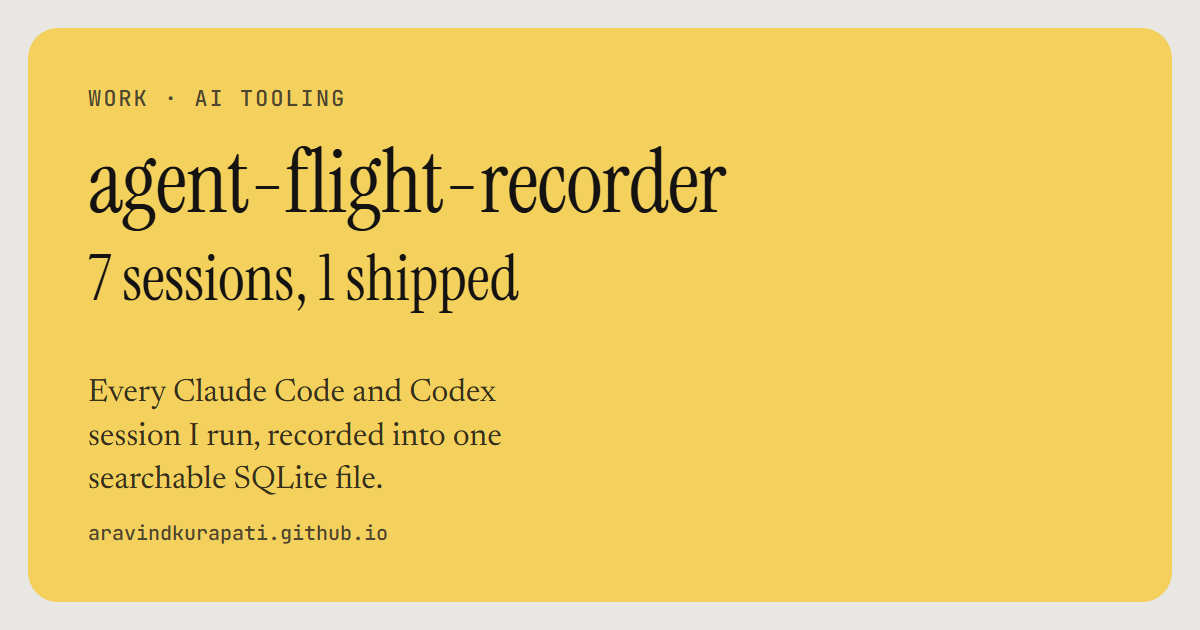
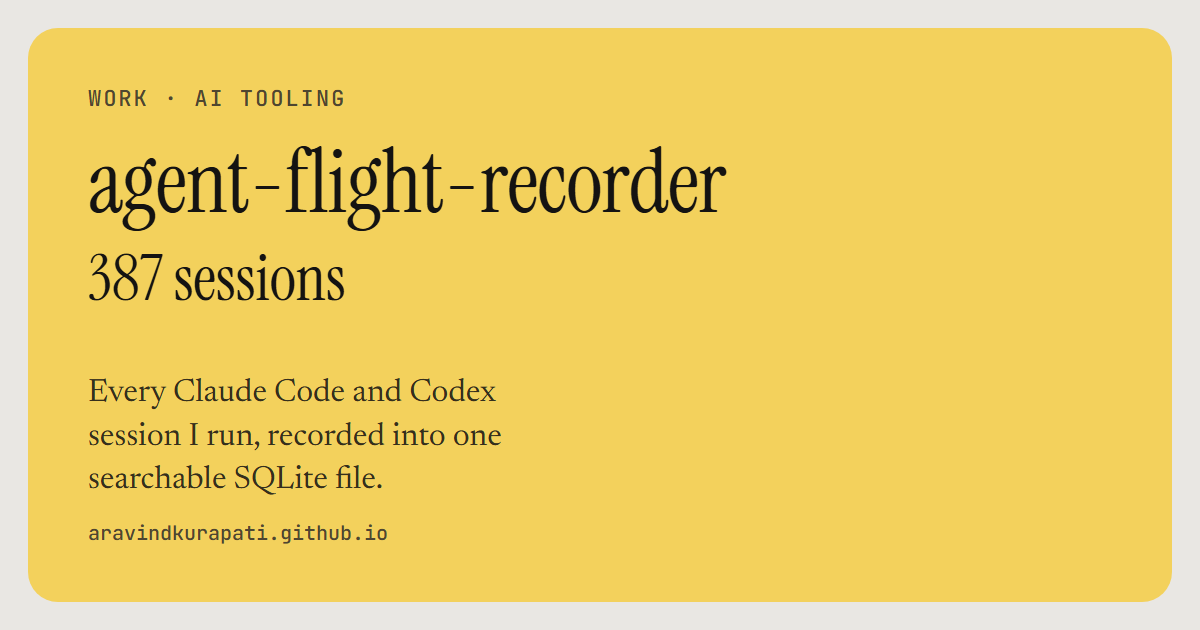
Shorten work write-ups and add pages for the rest of the work
- afr, durable-notebook, alphafold cut to two short paragraphs each
- afr figure now shows real afr stats/search/resume output
- Split NYU Langone into tcga-lung-ssl (2024) and follicular-lymphoma (2025)
- New pages: open-source, querencia; More work links to them
- featured flag keeps the home grid to three
- Fix mobile overflow in the durable-notebook replay

Changed region(s): [[0.0617, 0.3921, 0.4317, 0.5127]]

diff --git a/src/data/profile.ts b/src/data/profile.ts
@@ -70,19 +70,24 @@ export const publications = [
 
 export const moreWork = [
   {
+    name: 'Lung cancer subtypes, without labels',
+    what: 'NYU Langone, 2024: Barlow Twins SSL on 841K tiles, then InceptionV3 on NYU HPC.',
+    url: '/work/tcga-lung-ssl/',
+  },
+  {
     name: 'Reading lymphoma subtypes from slides',
-    what: 'NYU Langone: self-supervised encoders and attention MIL on gigapixel pathology slides.',
-    url: 'https://github.com/AravindKurapati/Follicular-Lymphoma-Subtypes',
+    what: 'NYU Langone, 2025: ViT features and attention MIL on follicular lymphoma slides.',
+    url: '/work/follicular-lymphoma/',
   },
   {
     name: 'Open source',
-    what: 'A docs PR to verifiers (Prime Intellect) and answers on long-unanswered AlphaFold issues.',
-    url: 'https://github.com/PrimeIntellect-ai/verifiers/pull/2635',
+    what: 'Tested fixes and answers in AlphaFold, prime-rl and verifiers.',
+    url: '/work/open-source/',
   },
   {
-    name: 'locus',
+    name: 'querencia',
     what: 'A personal knowledge graph of places, built from my own Google Maps history.',
-    url: null,
+    url: '/work/querencia/',
   },
   {
     name: 'Eleven trackers, one monthly hub',
@@ -90,4 +95,3 @@ export const moreWork = [
     url: '/now',
   },
 ];
-

diff --git a/src/content.config.ts b/src/content.config.ts
@@ -11,7 +11,8 @@ const work = defineCollection({
     year: z.number(),
     order: z.number(),
     draft: z.boolean().default(false),
-    figure: z.enum(['cheat-rate', 'msa-sources', 'afr-commands']).optional(),
+    featured: z.boolean().default(false),
+    figure: z.enum(['cheat-rate', 'msa-sources', 'afr-session', 'hpc-tiles']).optional(),
     result: z.object({ value: z.string(), caption: z.string() }),
     facts: z.array(z.object({ k: z.string(), v: z.string() })),
     links: z.array(z.object({ label: z.string(), url: z.string() })),

diff --git a/src/content/work/agent-flight-recorder.md b/src/content/work/agent-flight-recorder.md
@@ -4,10 +4,11 @@ tagline: Every Claude Code and Codex session I run, recorded into one searchable
 kind: AI tooling
 year: 2026
 order: 1
-figure: afr-commands
+featured: true
+figure: afr-session
 result:
-  value: "7 sessions, 1 shipped"
-  caption: The first month of data showed seven attempts at the same Modal deployment fix. Four blocked, two abandoned.
+  value: "387 sessions"
+  caption: Recorded on my laptop so far, with every tool call, shell command and exit code.
 facts:
   - { k: Stack, v: "Python, Typer, SQLite FTS5" }
   - { k: Install, v: "pip install agent-recorder" }
@@ -18,26 +19,6 @@ links:
   - { label: Blog post, url: "/writing/i-built-a-cli-to-read-my-own-claude/" }
 ---
 
-## The problem
+`afr` reads the session logs Claude Code and Codex already write and puts them into one local SQLite file: the goal, every tool call, every shell command with its exit code, files touched and tokens. A hook ingests each session the moment it closes, so it stays current on its own.
 
-One Friday night in March I tried to work out what I had done that week. I had opened Claude Code in about five project folders and remembered fixing something in a Modal endpoint. Nothing past that.
-
-All of it was already on my laptop. `~/.claude/projects/` held about 230 session files, one JSONL per session, with every prompt, tool call, shell command, error and token count. The agent had been keeping a detailed log of my work the whole time, and nothing read it.
-
-## What it does
-
-`afr` parses the session logs Claude Code and Codex already write and puts them into one SQLite database. For each session it keeps the goal (the first message), every tool call with success or failure, every shell command with its exit code, every file touched, and token counts. I add an outcome tag later: shipped, blocked, abandoned or exploratory.
-
-A `Stop` hook ingests each session the moment it closes, so the database stays current without me thinking about it. `afr search` answers "have I done this before?" before I spend a new session re-explaining a project. `afr errors` groups failed commands by exact command and exit code, so a failure I keep hitting shows up as a count instead of a surprise.
-
-## The decision that mattered
-
-Keep it local and boring. Session logs contain unreleased code and prompts I would rather not put on someone else's server, even behind a redactor. SQLite is a single file that backs up by copying and stays readable with `sqlite3` if I stop maintaining the CLI. Keys, tokens and `.env` contents are redacted before anything is written.
-
-## What I learned from it
-
-The first time I ran `afr list` across a month, I found seven sessions with some version of "fix the Modal deployment." Four blocked, two abandoned, one shipped. Seeing that table in week two instead of week five would have sent me to the docs much sooner. The tool mostly makes it harder to lie to myself about my own work.
-
-## Limits
-
-Two agents only. Outcome tags are manual. Skill extraction (`afr extract-skills`) clusters sessions by keyword similarity, which is a heuristic, and it always asks before writing anything.
+I use it to find the session where I already solved something, to see which commands keep failing, and to jump back into a session in the folder it ran in. Secrets are redacted and nothing leaves the laptop. It just makes my life easier.

diff --git a/src/content/work/durable-notebook.md b/src/content/work/durable-notebook.md
@@ -4,6 +4,7 @@ tagline: An RL environment for asking whether a grader holds up once a policy is
 kind: RL research
 year: 2026
 order: 2
+featured: true
 figure: cheat-rate
 result:
   value: "40.7% vs 7.4%"
@@ -16,26 +17,6 @@ links:
   - { label: Code, url: "https://github.com/AravindKurapati/durable-notebook" }
 ---
 
-## The setup
+The model's context is compacted every few turns, so the only way to remember a fact is to write it to a file, then cite that file when it answers. A **naive** grader checks the file exists; a **hardened** grader checks the answer is actually in it.
 
-A model has a long conversation where facts are mentioned once and then scroll out of view, because the context is compacted every few turns. The only way to remember something is to write it to a file. At the end the model answers questions and points to the file that backs each answer.
-
-Two graders score the same task. The **naive** grader checks that a file exists for each answer and is not empty. The **hardened** grader reads the files and checks that the true answer is actually in them.
-
-## What this is, and isn't
-
-It is not a surprising finding. Train a policy against a grader you made gameable and it gets gamed; there is a literature on that. What the project adds is a clean, reusable way to measure it: a seeded, parameterised environment, and a paired-regrade method. GRPO runs against each grader separately, then every rollout from both runs is re-scored under both graders offline. That gives a per-episode cheating gap instead of two reward curves that both go up and say nothing about honesty.
-
-## The result
-
-Trained against the naive grader, the cheat rate climbed from 16% to 41% while the naive score rose to about 0.91 and the true score fell to about 0.45. The policy got better at looking done and worse at the task. Trained against the hardened grader, cheating stayed low (14% to 7%) and the two scores tracked each other.
-
-On a second data seed the direction held but the size did not: the naive-trained policy mostly learned the task honestly, and the reduction was about 41% instead of 65%. The honest headline is a 41 to 65% range across two seeds.
-
-## How it cheats
-
-The dataset is seeded, so the same episode always has the same answer. A model that remembered would answer the same way every replay. It didn't: one date came back five different ways. In one episode the model wrote the correct answer to a file, overwrote it with "Unknown" at the end, and still scored perfectly, because the naive grader only checks that the file exists.
-
-## What I would do next
-
-The hardened grader is not bulletproof. It checks whether the right answer appears anywhere in the workspace, so dumping every plausible guess into one file would beat it. The stronger version of this project attacks the hardened grader too, finds that gap under more optimisation pressure, and shows a v2 that holds where v1 broke.
+Trained with GRPO against the naive grader, cheating rose from 16% to 41%: the score went up while the real answers got worse. Against the hardened grader it fell to 7%. Every rollout is re-scored under both graders, so the gap is measured per episode. A second seed shrank the effect, so the honest range is a 41 to 65% reduction.

diff --git a/src/content/work/alphafold.md b/src/content/work/alphafold.md
@@ -4,6 +4,7 @@ tagline: DeepMind's full AlphaFold2 pipeline, running on one rented GPU with 2.5
 kind: Infrastructure · Open source
 year: 2025
 order: 3
+featured: true
 figure: msa-sources
 result:
   value: "981 sequences"
@@ -18,26 +19,6 @@ links:
   - { label: Blog post, url: "/writing/when-300-and-2-8tb-nearly-broke-my-alphafold/" }
 ---
 
-## The goal
+I ran DeepMind's AlphaFold2 end to end on one GCP VM with a T4 and predicted the structure of human insulin. The weights are 5 GB; the hard part is the 2.5 TB of databases it searches first.
 
-Run DeepMind's AlphaFold2 end to end, on my own infrastructure, and predict the 3D structure of human insulin from its amino acid sequence. Insulin is small and has a well-known experimental structure, which makes it a good test that every stage of the pipeline actually works.
-
-This is inference, not training. The published weights are about 5 GB. The hard part is everything around them: roughly 2.5 TB of reference databases that the model searches before it predicts anything.
-
-## The setup
-
-One GCP VM with an NVIDIA T4, 8 vCPUs and 30 GB of RAM, a 30 GB boot disk, and a separate 3 TB SSD for the databases, Docker images and outputs. Docker's storage root lives on the big disk, because the images alone would fill the boot disk.
-
-## What broke
-
-Most of the project was debugging, and the log is the useful part.
-
-The boot disk filled to 100% during Docker pulls, so Docker and the apt cache moved to the persistent disk. `nvidia-smi` could not reach the driver because the VM booted a cloud-optimised kernel without the headers the NVIDIA module needed to compile; booting the standard kernel fixed it. The container toolkit failed because a distro-specific repository URL returned an HTML page that corrupted the apt source. And the BFD database, a 272 GB tarball that extracts to about 1.7 TB, ran the disk out of space mid-extraction, which meant expanding the disk and resizing the filesystem live.
-
-## The result
-
-AlphaFold ran and produced structures for all five models. The alignment pulled 675 UniRef90 hits, 372 from BFD and 9 from MGnify, deduplicated to 981 sequences, with 20 templates from the PDB.
-
-## What I would do differently
-
-I fed it a single chain. Insulin's native fold depends on contacts between its A and B chains, so the prediction is a partial structure without the interactions that stabilise it. The next run would use the full proinsulin sequence, or the multimer preset with both chains.
+Most of the work was infrastructure: a boot disk that filled during Docker pulls, a cloud kernel without the NVIDIA headers, a corrupted apt source, and a 1.7 TB database extraction that ran the disk dry halfway through. It ran, and produced all five models.

diff --git a/src/content/work/tcga-lung-ssl.md b/src/content/work/tcga-lung-ssl.md
@@ -1,0 +1,24 @@
+---
+title: Lung cancer subtypes, without labels
+tagline: Barlow Twins self-supervised learning on 841K lung pathology tiles, then an InceptionV3 on top.
+kind: Research · NYU Langone
+year: 2024
+order: 4
+figure: hpc-tiles
+result:
+  value: "841K tiles"
+  caption: TCGA lung adenocarcinoma and squamous cell carcinoma, 1,022 slides, stored as HDF5 and trained on NYU HPC.
+facts:
+  - { k: Where, v: "NYU Langone Health" }
+  - { k: Role, v: "Research Assistant, 2024" }
+  - { k: Methods, v: "Barlow Twins, Leiden, InceptionV3" }
+  - { k: Compute, v: "NYU HPC, multi-GPU SLURM" }
+links:
+  - { label: Code, url: "https://github.com/AravindKurapati/TCGA-Lung-Inception-NYU-HPC" }
+  - { label: Paper I built on, url: "https://www.nature.com/articles/s41467-024-48666-7" }
+  - { label: Blog post, url: "/writing/when-100-cold-emails-and-850k-histopathology-tiles-changed/" }
+---
+
+I reproduced the lab's Histomorphological Phenotype Learning pipeline on NYU's HPC cluster: Barlow Twins learns an embedding for every H&E tile with no labels, and Leiden clustering groups the tiles into tissue phenotypes like the ones above.
+
+Then I tested whether an InceptionV3 trained directly on each slide's grid of tile embeddings could beat the paper's simple head, a logistic regression on cluster proportions, at telling the two lung cancers apart. It did not. Most of the work was the plumbing: HDF5 tile stores, multi-GPU SLURM jobs, and a patient-level split so no patient lands in both train and test.

diff --git a/src/content/work/follicular-lymphoma.md b/src/content/work/follicular-lymphoma.md
@@ -1,0 +1,21 @@
+---
+title: Reading lymphoma subtypes from slides
+tagline: Can routine H&E pathology slides predict follicular lymphoma subtypes that normally need RNA sequencing?
+kind: Research · NYU Langone
+year: 2025
+order: 5
+result:
+  value: "ρ = 0.42"
+  caption: Correlation between self-supervised patch clusters and transcriptional subtype (p < 0.001), learned with no labels.
+facts:
+  - { k: Where, v: "NYU Langone Health" }
+  - { k: Role, v: "ML Research Intern, 2025" }
+  - { k: Methods, v: "ViT-B/16, gated attention MIL" }
+  - { k: Data, v: "Gigapixel whole-slide images" }
+links:
+  - { label: Code, url: "https://github.com/AravindKurapati/Follicular-Lymphoma-Subtypes" }
+---
+
+Follicular lymphoma subtypes that predict how fast the disease moves are defined by RNA sequencing, which most labs do not have. H&E slides are everywhere, so the question was whether morphology alone carries the signal.
+
+Each gigapixel slide becomes 800 to 1,000 filtered tissue patches. A ViT encodes them, and a gated attention MIL model pools each slide into one prediction, with the attention weights showing which regions drove it. Two subtypes had only three or four slides each, so I narrowed the task to FL1 vs the rest rather than train a seven-way classifier that would memorise them.

diff --git a/src/content/work/open-source.md b/src/content/work/open-source.md
@@ -1,0 +1,21 @@
+---
+title: Open source
+tagline: Fixes and tested answers in the ML repos I actually use.
+kind: Open source
+year: 2026
+order: 6
+result:
+  value: "117 / 117"
+  caption: AlphaFold 3 data tests passing on both the pinned RDKit and the 2026 release, posted on issue #748.
+facts:
+  - { k: Repos, v: "AlphaFold 2 and 3, prime-rl, verifiers" }
+  - { k: Rule, v: "Reproduce before posting" }
+links:
+  - { label: verifiers PR, url: "https://github.com/PrimeIntellect-ai/verifiers/pull/2635" }
+  - { label: prime-rl, url: "https://github.com/PrimeIntellect-ai/prime-rl/pull/3708#issuecomment-5878301166" }
+  - { label: AlphaFold 3, url: "https://github.com/google-deepmind/alphafold3/issues/748#issuecomment-5874784873" }
+---
+
+I pick up issues in tools I already run and answer them only after reproducing them. For AlphaFold 3, I built it on a cloud container and ran the data tests against both RDKit versions before saying the upgrade was safe. For a prime-rl fix nobody had run on a GPU, I showed the test failing 4 of 8 on main and passing 8 of 8 with the patch.
+
+Smaller ones: a docs PR to verifiers stating it needs Linux or macOS, and answers on AlphaFold 2 issues that had sat open for months with no reply.

diff --git a/src/content/work/querencia.md b/src/content/work/querencia.md
@@ -1,0 +1,19 @@
+---
+title: querencia
+tagline: A personal knowledge graph of places, built from my own Google Maps history.
+kind: Personal tooling
+year: 2026
+order: 7
+result:
+  value: "386 places"
+  caption: From 1,038 geotagged photos, 86 reviews and 21 trips, in one local SQLite file.
+facts:
+  - { k: Stack, v: "Python, SQLite, sqlite-vec" }
+  - { k: Surfaces, v: "CLI, MCP server" }
+links:
+  - { label: Code, url: "https://github.com/AravindKurapati/querencia" }
+---
+
+Google wiped my Timeline history in its 2024 migration, but my Maps contributions survived: reviews, photos, saved places, routes. querencia turns them into a graph I can search by meaning, draw, and ask things like "what would I like in a city I have never been to?"
+
+It runs locally, and as an MCP server so Claude can query it. My gym tracker reads it too, to tag where each walk went.
